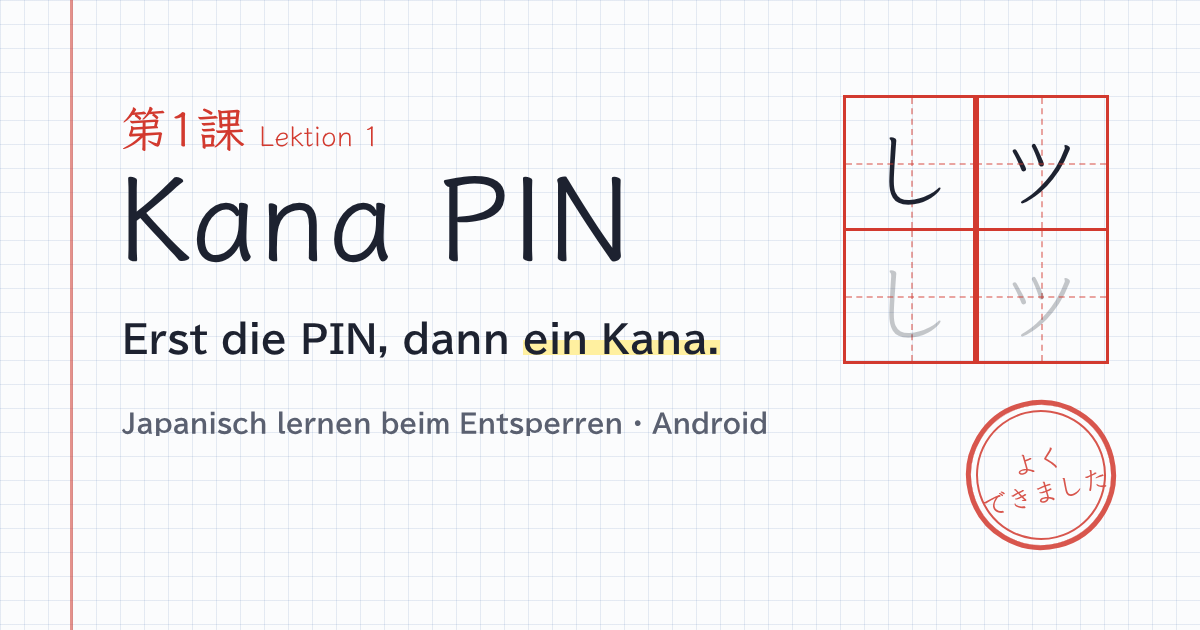
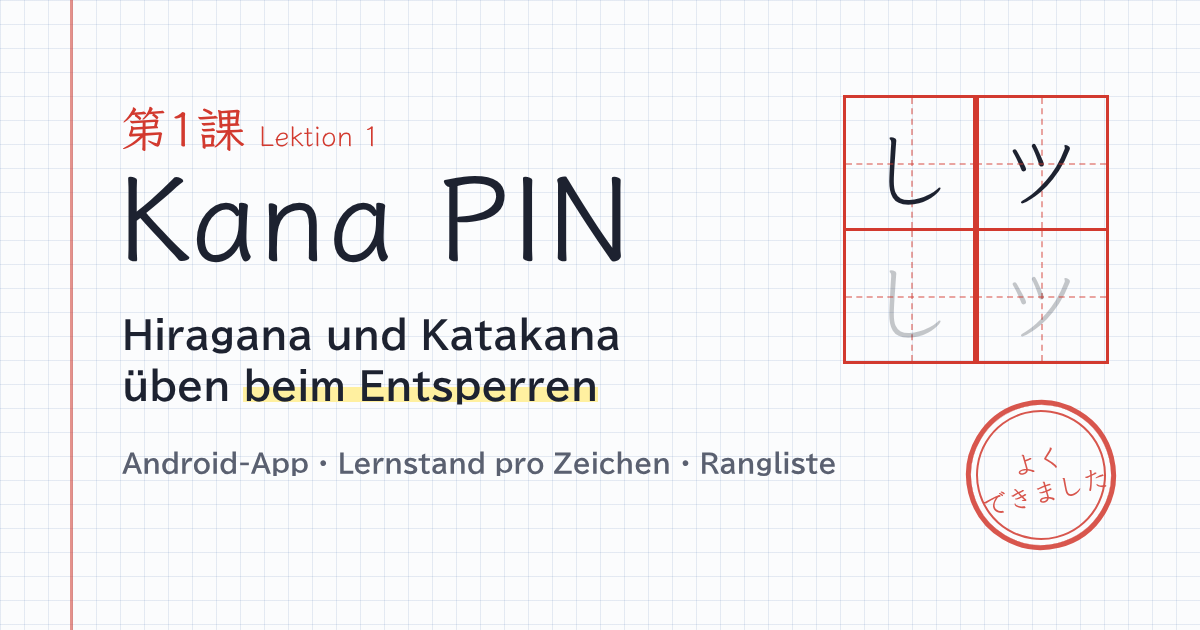
Texte sachlich überarbeitet
Claude-Session: https://claude.ai/code/session_013Lx76SESdgxUzeEUov6uH8

Changed region(s): [[0.0925, 0.5127, 0.6475, 0.6937], [0.0925, 0.7238, 0.7092, 0.754]]

diff --git a/index.html b/index.html
@@ -4,9 +4,9 @@
 <meta charset="utf-8">
 <meta name="viewport" content="width=device-width, initial-scale=1, viewport-fit=cover">
 <title>Kana PIN</title>
-<meta name="description" content="Japanisch für Faule, Lektion 1: Hiragana und Katakana lernen, jedes Mal wenn du dein Handy entsperrst. Kostenlose Android-App mit Rangliste.">
-<meta property="og:title" content="Kana PIN · Japanisch für Faule">
-<meta property="og:description" content="Erst die PIN, dann ein Kana. Lernen per Zwang – mit Rangliste für Freunde.">
+<meta name="description" content="Kana PIN fragt nach jedem Entsperren des Handys ein Hiragana oder Katakana ab. Kostenlose Android-App mit Lernstand pro Zeichen und Rangliste.">
+<meta property="og:title" content="Kana PIN">
+<meta property="og:description" content="Hiragana und Katakana üben beim Entsperren des Handys. Android-App mit Rangliste.">
 <meta property="og:image" content="https://zenzzygit.github.io/kana-pin/og.png">
 <meta property="og:type" content="website">
 <meta name="theme-color" content="#FBFCFD">
@@ -15,8 +15,8 @@
 <link rel="preconnect" href="https://fonts.gstatic.com" crossorigin>
 <link rel="stylesheet" href="https://fonts.googleapis.com/css2?family=BIZ+UDPGothic:wght@400;700&family=Klee+One:wght@400;600&display=swap">
 <style>
-/* Layout: eine Schulbuchseite auf Karopapier mit Randlinie – Kolumnentitel, Lektionsöffner,
-   Abbildung, Lernziele, Merke-Kasten, Übung, Tabelle, Lehrkräfte-Hinweis, Seitenzahl. */
+/* Layout: eine Schulbuchseite auf Karopapier mit Randlinie. Kolumnentitel, Lektionsöffner,
+   Abbildung, Abschnitte 1.1 bis 1.5, Hinweise, Seitenzahl. */
 :root {
   --paper: #FBFCFD;
   --grid: rgba(64, 104, 168, 0.12);
@@ -105,7 +105,9 @@ h1 {
   line-height: 1.05;
   color: var(--ink);
 }
+.nw { white-space: nowrap; }
 .subtitle {
+  text-wrap: balance;
   margin-top: 8px;
   font-size: 1.25rem; font-weight: 700;
 }
@@ -205,7 +207,7 @@ section { padding-block: 36px; border-top: 1px solid var(--rule); }
 h2 { font-size: clamp(1.5rem, 4.2vw, 2rem); line-height: 1.25; }
 
 /* Schreibheft-Kästchen (田字格) */
-.drill { display: flex; gap: 0; margin-top: 18px; overflow-x: auto; }
+.drill { display: flex; gap: 0; overflow-x: auto; }
 .cell {
   position: relative; flex: none; width: 64px; height: 64px;
   border: 1.5px solid var(--red); margin-left: -1.5px; background: var(--paper);
@@ -226,11 +228,7 @@ h2 { font-size: clamp(1.5rem, 4.2vw, 2rem); line-height: 1.25; }
 .box {
   width: 24px; height: 24px; margin-top: 4px; border: 2px solid var(--ink); position: relative;
 }
-.box::after {
-  content: "✓"; position: absolute; left: 3px; top: -16px;
-  font-family: var(--font-hand); font-weight: 600; font-size: 30px; color: var(--blue);
-  transform: rotate(-6deg);
-}
+
 .goals b { display: block; }
 .goals span.d { color: var(--muted); font-size: 1rem; }
 
@@ -266,7 +264,15 @@ td.p .circ {
   display: inline-block; padding: 0 8px; border: 2px solid var(--red); border-radius: 50%;
   transform: rotate(-4deg); color: var(--red);
 }
-.table-note { margin-top: 10px; font-family: var(--font-hand); color: var(--red); }
+.table-note { margin-top: 10px; font-size: 0.92rem; color: var(--muted); max-width: 40em; }
+.intro-text { margin-top: 16px; max-width: 40em; }
+.goals-intro { margin-top: 16px; font-weight: 700; }
+.method { margin: 18px 0 0; max-width: 40em; display: grid; gap: 16px; }
+.method dt { font-weight: 700; color: var(--blue); }
+.method dd { margin: 2px 0 0; }
+.notes { margin: 14px 0 0; padding-left: 1.2em; max-width: 40em; color: var(--muted); font-size: 0.97rem; display: grid; gap: 6px; }
+.fig-small { margin-top: 26px; }
+.fig-small figcaption { margin-top: 10px; }
 
 .teacher {
   margin-top: 4px; max-width: 40em;
@@ -297,7 +303,7 @@ td.p .circ {
 <div class="sheet">
 
   <div class="runhead">
-    <span><b>Japanisch für Faule</b> · Kapitel 1: Die Kana</span>
+    <span><b>Japanisch</b> · Schrift · Lektion 1</span>
     <span>Seite 1</span>
   </div>
 
@@ -306,12 +312,12 @@ td.p .circ {
       <div class="stamp" aria-hidden="true">よく<br>できました</div>
       <div class="lesson"><span class="jp">第1課</span><span class="de">Lektion 1</span></div>
       <h1>Kana PIN</h1>
-      <p class="subtitle">Erst die PIN, dann <mark>ein Kana.</mark></p>
-      <p class="lead">Jedes Mal, wenn du dein Handy entsperrst, fragt dich die App ein Hiragana oder Katakana ab. Was du nicht kannst, kommt öfter dran.</p>
+      <p class="subtitle">Hiragana und Katakana üben <mark>beim Entsperren</mark></p>
+      <p class="lead">Kana PIN fragt nach jedem Entsperren des Handys ein japanisches Schriftzeichen ab. Das Handy ist erst nach der richtigen Antwort freigegeben. So wird das Lesen der beiden Silbenschriften mehrmals am Tag wiederholt.</p>
 
       <div class="task">
-        <span class="task-label">Aufgabe 1</span>
-        <p>Lade die App herunter.</p>
+        <span class="task-label">Download</span>
+        <p>Kana PIN für Android</p>
         <a class="btn" href="Kana-PIN.apk" download="Kana-PIN.apk">
           <svg viewBox="0 0 24 24" fill="none" stroke="currentColor" stroke-width="2.4" stroke-linecap="round" stroke-linejoin="round" aria-hidden="true"><path d="M12 3v13"/><path d="m6 11 6 6 6-6"/><path d="M4 21h16"/></svg>
           APK herunterladen
@@ -334,74 +340,97 @@ td.p .circ {
           </div>
         </div>
       </div>
-      <figcaption><b>Abb. 1</b> · Das Quiz direkt nach dem Entsperren</figcaption>
+      <figcaption><b>Abb. 1</b> · Abfrage nach dem Entsperren</figcaption>
     </figure>
-
   </header>
 
-  <section aria-labelledby="ziele">
-    <div class="sec-head"><span class="sec-no">1.1</span><h2 id="ziele">Für alle, die zu faul zum Lernen sind</h2></div>
-
-    <div class="drill" aria-hidden="true">
-      <div class="cell"><span>し</span></div>
-      <div class="cell t1"><span>し</span></div>
-      <div class="cell t2"><span>し</span></div>
-      <div class="cell"></div>
-      <div class="cell"></div>
-      <div class="cell"></div>
-    </div>
-    <p class="drill-note">Früher: Schreibheft. Heute: Sperrbildschirm.</p>
-
+  <section aria-labelledby="zielgruppe">
+    <div class="sec-head"><span class="sec-no">1.1</span><h2 id="zielgruppe">Zielgruppe</h2></div>
+    <p class="intro-text">Die App richtet sich an Lernende, denen regelmäßiges Üben schwerfällt. Die Wiederholung ist an das Entsperren des Handys gekoppelt und findet dadurch ohne eigenen Entschluss statt.</p>
     <div class="merke">
-      <span class="label">Merke!</span>
-      <p>Ans Handy kommst du erst, wenn du das Zeichen weißt. Lernen per Zwang – ganz ohne Disziplin.</p>
+      <span class="label">Merke</span>
+      <p>Kurze, regelmäßige Wiederholungen sind wirksamer als lange Lerneinheiten in großen Abständen.</p>
     </div>
+  </section>
 
+  <section aria-labelledby="ziele">
+    <div class="sec-head"><span class="sec-no">1.2</span><h2 id="ziele">Lernziele</h2></div>
+    <p class="goals-intro">Nach dieser Lektion kannst du</p>
     <ul class="goals">
-      <li><span class="box" aria-hidden="true"></span><span><b>Quiz nach dem Entsperren</b><span class="d">Nach PIN oder Fingerabdruck kommt ein Zeichen. Der Notfallknopf ist immer da.</span></span></li>
-      <li><span class="box" aria-hidden="true"></span><span><b>Lernt mit dir</b><span class="d">Verwechselst du シ und ツ, übt die App genau das. Was sitzt, kommt seltener.</span></span></li>
-      <li><span class="box" aria-hidden="true"></span><span><b>Eselsbrücken</b><span class="d">Ein Bilderrätsel als Tipp für jedes Zeichen – ohne die Lösung zu verraten.</span></span></li>
-      <li><span class="box" aria-hidden="true"></span><span><b>Rangliste</b><span class="d">Punkte sammeln und mit Freunden messen. Jeden Montag beginnt eine neue Wochenwertung.</span></span></li>
+      <li><span class="box" aria-hidden="true"></span><span>die 46 Hiragana lesen,</span></li>
+      <li><span class="box" aria-hidden="true"></span><span>die 46 Katakana lesen,</span></li>
+      <li><span class="box" aria-hidden="true"></span><span>ähnliche Zeichen wie <span class="nw">シ und ツ</span> oder <span class="nw">ぬ und め</span> unterscheiden,</span></li>
+      <li><span class="box" aria-hidden="true"></span><span>Zeichen mit Dakuten <span class="nw">(が, ぱ)</span> und zusammengesetzte Silben <span class="nw">(きゃ, しょ)</span> lesen.</span></li>
     </ul>
+    <figure class="fig-small">
+      <div class="drill" aria-hidden="true">
+        <div class="cell"><span>し</span></div>
+        <div class="cell t1"><span>し</span></div>
+        <div class="cell t2"><span>し</span></div>
+        <div class="cell"></div>
+        <div class="cell"></div>
+        <div class="cell"></div>
+      </div>
+      <figcaption><b>Abb. 2</b> · Übungskästchen für Kana. Die App trainiert das Lesen, nicht das Schreiben.</figcaption>
+    </figure>
+  </section>
+
+  <section aria-labelledby="methode">
+    <div class="sec-head"><span class="sec-no">1.3</span><h2 id="methode">Funktionsweise</h2></div>
+    <dl class="method">
+      <div><dt>Wiederholung nach Lernstand</dt><dd>Jedes Zeichen hat einen eigenen Lernstand. Falsch beantwortete Zeichen werden bald erneut abgefragt, sicher beherrschte in wachsenden Abständen.</dd></div>
+      <div><dt>Steigender Schwierigkeitsgrad</dt><dd>Zuerst wird die Lesung aus vier Möglichkeiten ausgewählt. Später wird das Zeichen zur Lesung gesucht und schließlich die Lesung eingetippt.</dd></div>
+      <div><dt>Erkennung von Verwechslungen</dt><dd>Die App merkt sich, welche Zeichen verwechselt werden, und bietet diese gezielt als Antwortmöglichkeiten an.</dd></div>
+      <div><dt>Eselsbrücken</dt><dd>Zu jedem Zeichen gibt es eine Eselsbrücke als Bildrätsel. Sie führt zur Lösung, ohne sie zu nennen.</dd></div>
+      <div><dt>Rangliste</dt><dd>Richtige Antworten ergeben Punkte. Die Rangliste zeigt Wochenpunkte, Gesamtpunkte und die Anzahl gelernter Zeichen. Die Wochenwertung beginnt jeden Montag neu.</dd></div>
+      <div><dt>Notfallknopf</dt><dd>Die Abfrage lässt sich jederzeit über den Notfallknopf beenden.</dd></div>
+    </dl>
   </section>
 
   <section aria-labelledby="install">
-    <div class="sec-head"><span class="sec-no">1.2</span><h2 id="install">Übung: Installieren</h2></div>
+    <div class="sec-head"><span class="sec-no">1.4</span><h2 id="install">Installation</h2></div>
     <ol class="steps">
-      <li><span class="l">a)</span><span><b>APK herunterladen</b> und die Datei öffnen.</span></li>
-      <li><span class="l">b)</span><span>Bei der Warnung auf <b>„Trotzdem installieren“</b> tippen.</span></li>
-      <li><span class="l">c)</span><span>In der App <b>„Über anderen Apps einblenden“</b> erlauben.
-        <span class="margin-note">Schalter gesperrt? → App-Info → ⋮ → „Eingeschränkte Einstellungen zulassen“</span></span></li>
-      <li><span class="l">d)</span><span><b>„Quiz beim Entsperren“</b> einschalten und in der Rangliste einen Namen eintragen.</span></li>
+      <li><span class="l">a)</span><span>Lade die Datei <b>Kana-PIN.apk</b> herunter und öffne sie.</span></li>
+      <li><span class="l">b)</span><span>Android weist darauf hin, dass die App nicht aus dem Play Store stammt. Bestätige mit <b>„Trotzdem installieren“</b>.</span></li>
+      <li><span class="l">c)</span><span>Öffne die App und erlaube <b>„Über anderen Apps einblenden“</b>.
+        <span class="margin-note">Ist der Schalter gesperrt: App-Info öffnen, oben rechts auf ⋮ tippen und „Eingeschränkte Einstellungen zulassen“ wählen.</span></span></li>
+      <li><span class="l">d)</span><span>Schalte <b>„Quiz beim Entsperren“</b> ein. Für die Rangliste legst du einen Namen fest.</span></li>
     </ol>
   </section>
 
   <section aria-labelledby="punkte">
-    <div class="sec-head"><span class="sec-no">1.3</span><h2 id="punkte">Punkte</h2></div>
+    <div class="sec-head"><span class="sec-no">1.5</span><h2 id="punkte">Punkte</h2></div>
     <div class="table-wrap">
       <table>
-        <caption><b>Tab. 1</b> · Punkte pro richtiger Antwort</caption>
+        <caption><b>Tab. 1</b> · Punkte je richtiger Antwort</caption>
         <thead><tr><th>Frage</th><th>Punkte</th></tr></thead>
         <tbody>
           <tr><td>Lesung auswählen (し → shi)</td><td class="p">10</td></tr>
           <tr><td>Zeichen auswählen (shi → し)</td><td class="p">15</td></tr>
           <tr><td>Lesung eintippen</td><td class="p">20</td></tr>
-          <tr><td>Schnell beantwortet</td><td class="p"><span class="circ">× 1,5</span></td></tr>
-          <tr><td>Mit Eselsbrücke</td><td class="p">3</td></tr>
+          <tr><td>Zuschlag für zusammengesetzte Silben (きゃ)</td><td class="p">+5</td></tr>
+          <tr><td>Schnelle Antwort</td><td class="p"><span class="circ">× 1,5</span></td></tr>
+          <tr><td>Antwort mit Eselsbrücke</td><td class="p">3</td></tr>
+          <tr><td>Falsche Antwort</td><td class="p">0</td></tr>
         </tbody>
       </table>
     </div>
-    <p class="table-note">Schnell sein lohnt sich!</p>
+    <p class="table-note">Als schnell gilt eine Antwort in unter 3 Sekunden (Lesung auswählen), unter 4 Sekunden (Zeichen auswählen) oder unter 6 Sekunden (Eintippen).</p>
   </section>
 
-  <section aria-labelledby="hinweis">
-    <h2 id="hinweis" class="sec-head" style="font-size:1.15rem">Hinweis für Lehrkräfte</h2>
-    <p class="teacher" style="margin-top:12px"><span class="label">Ehrlich gesagt:</span> Diese App wurde komplett mit KI gevibecodet. Sie ist ein privates Projekt und nur zum Lernen gedacht – keine Firma, kein Support, keine Garantie.</p>
+  <section aria-labelledby="hinweise">
+    <div class="sec-head"><h2 id="hinweise">Hinweise</h2></div>
+    <ul class="notes">
+      <li>Kana PIN ist ein privates Projekt und wurde mit Unterstützung von KI entwickelt („Vibe Coding“).</li>
+      <li>Die App dient ausschließlich Lernzwecken. Es besteht kein Anspruch auf Support oder Gewährleistung.</li>
+      <li>Die App ist nur für Android ab Version 12 verfügbar.</li>
+      <li>In der Rangliste sind Name und Punktestand für alle Teilnehmenden sichtbar.</li>
+    </ul>
   </section>
 
   <div class="folio">
-    <span>Kana PIN · mit KI gevibecodet · nur für Android · kein Konto nötig</span>
-    <span>Name und Punkte sind in der Rangliste für alle sichtbar.</span>
+    <span>Kana PIN · Version 3.0</span>
+    <span>Mit KI entwickelt · nur für Lernzwecke</span>
   </div>
   <div class="pageno">– 1 –</div>
 </div>
